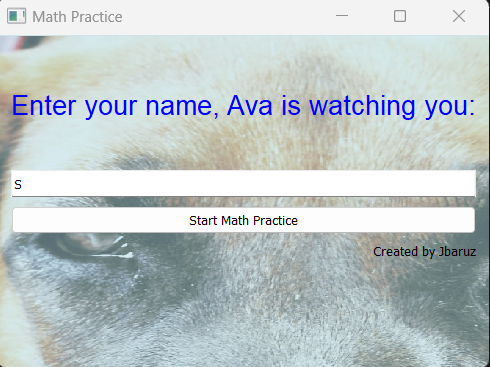
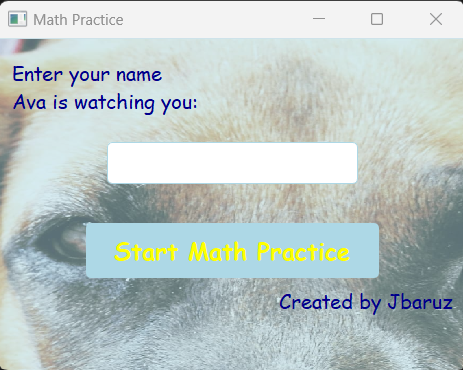
Add images and features new version

diff --git a/math_practicesGUI.py b/math_practicesGUI.py
@@ -52,7 +52,7 @@ class MathPracticeApp(QMainWindow):
 
         self.layout = QVBoxLayout()
 
-        self.label = QLabel("Enter your name\n, Ava is watching you:")
+        self.label = QLabel("Enter your name\nAva is watching you:")
         self.layout.addWidget(self.label)
 
         self.name_input = QLineEdit()

diff --git a/README.md b/README.md
@@ -1,9 +1,22 @@
 
 # GUI math practice
 
-It is an application that helps kids, like my daughter, learn mathematical operations, focusing on negative and positive integer numbers.
+It is an application that helps kids, like my daughter, learn mathematical operations, focusing on negative and positive integer numbers (Multiplication, substraction, addition).
 
+Aditionally, the application is adapted from the math practice according to the user's weaknesses used a simple ruled-based sistem.
 
+The 'generate_question' method in the 'MathPracticeApp; class generates questions based on the user's poerformance in previous questions. If the use has a weakness in a certain operation (addition, subtraction or multiplication), the method will be more likely to generate questions with that operation. The reuled-based system is based on the user's incorrect answers, and the weights for each operation are adjusted accordingly in the 'user_weaknesses' dictionary.
+
+## Features
+
+1. The application starts by importing the necessary libraries and creating a MathPracticeApp class which inherits from QMainWindow.
+2. The main window of the app is set up in the __init__ method with a QVBoxLayout layout and widgets for entering the user's name and starting the math practice.
+3. The generate_question function is responsible for creating random math questions based on the user's weaknesses.
+4. When the user clicks the "Start Math Practice" button, the start_math_practice method is called, which sets up the layout for the actual math practice, generates the questions, and connects the "Submit Answer" button to the check_answer method.
+5. The check_answer method is called when the user submits an answer. It compares the user's answer to the correct answer, updates the user's score, and updates the user's weaknesses if the answer is incorrect.
+6. The show_question method displays the next question or the final score and a "Play Again" button if all questions have been answered.
+7. The reset_app method is called when the user clicks the "Play Again" button, resetting the application to its initial state.
+Finally, the if __name__ == "__main__": block creates a QApplication instance, sets global styles for the application, creates and displays the main window, and starts the app's event loop.
 
 ## Documentation
 
@@ -22,13 +35,6 @@ from PyQt5.QtGui import QFont, QColor, QPalette, QImage, QBrush
 from PyQt5.QtCore import QSize, Qt
 ```
 
-
-## Features
-
-- Math practice on a positive way
-- Apply again
-- Customizable according to user name
-- Archive Example /dist/math_practiceGUI.exe
 
 
 ## Installation
@@ -61,6 +67,8 @@ pyinstaller math_practicesGUI.spec
 ![App Screenshot 3](https://github.com/Jbaruz/mathpractice/blob/master/images/display3.png?raw=true)
 
 ![App Screenshot 4](https://github.com/Jbaruz/mathpractice/blob/master/images/dispplay4.png?raw=true)
+
+![App Screenshot 5](https://github.com/Jbaruz/mathpractice/blob/master/images/display5.png?raw=true)
 
 ## Feedback
 
